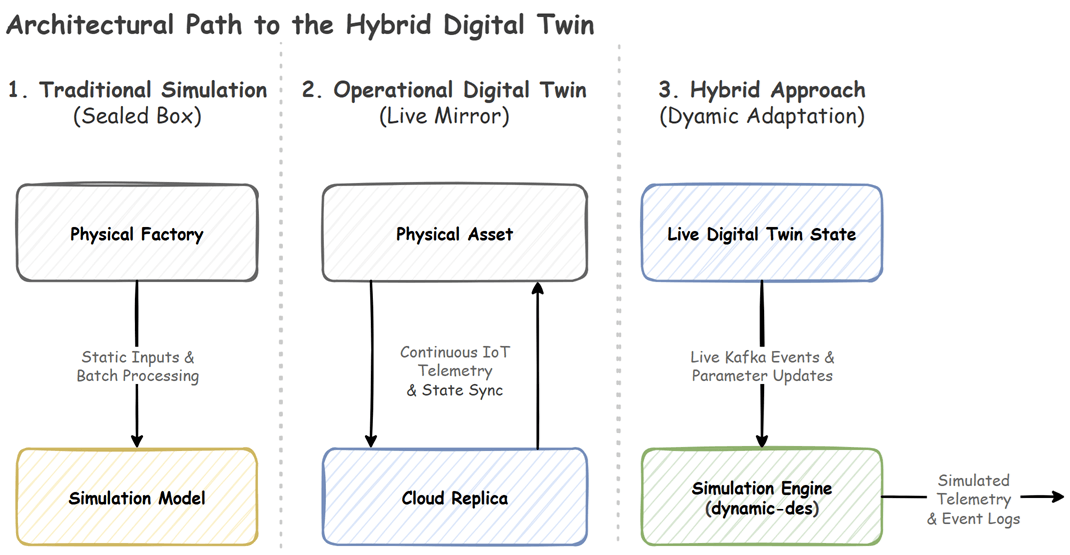
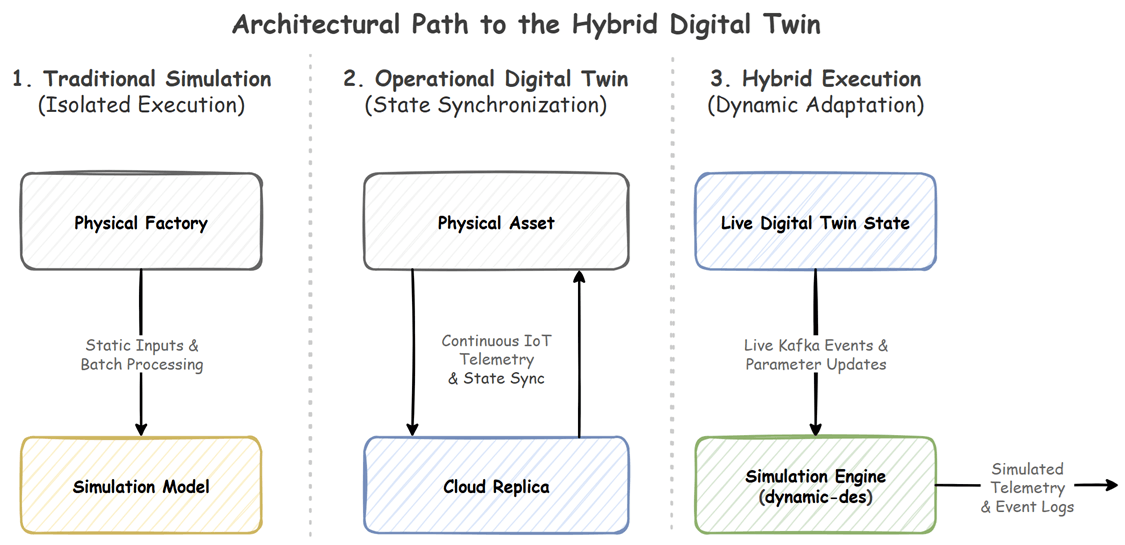
update post

diff --git a/content/blog/2026-04-23-digital-twin-industry-4-0/index.md b/content/blog/2026-04-23-digital-twin-industry-4-0/index.md
@@ -1,6 +1,6 @@
 ---
 title: "Why Digital Twins Are Rewiring Industry 4.0"
-date: 2026-04-23
+date: 2026-04-22
 draft: false
 featured: true
 comment: true
@@ -25,74 +25,65 @@ authors:
   - JaehyeonKim
 images: []
 description: |
-  Many systems marketed as digital twins are still static simulations. We look at the critical differences between traditional simulations, operational digital twins, and the hybrid architectures bridging the gap.
+  Many systems marketed as digital twins exist in an ambiguous middle ground. We look at the architectural layers separating traditional simulations, operational twins, and event-driven hybrid pipelines.
 ---
 
 ## Beyond CAD Models
 
-There is a project by Dassault Systèmes called the [**Living Heart**](https://www.3ds.com/3dexperiencelab/portfolio/living-heart) that illustrates the trajectory of this technology. Instead of relying on standard 2D scans, surgeons can pull up a 3D model of a patient's heart that simulates blood flow, mechanics, and electricity based on real patient data. It allows doctors to test therapeutic interventions before surgery begins.
+There is a project by Dassault Systèmes called the [**Living Heart**](https://www.3ds.com/3dexperiencelab/portfolio/living-heart) that illustrates the trajectory of this technology. Instead of relying on standard 2D scans, surgeons can pull up a high-fidelity 3D model of a patient's heart that simulates blood flow, mechanics, and electricity based on imaging-derived reconstructions and population-based physiological calibration.
 
-This highlights what a modern digital twin looks like in practice. It has moved past being a static 3D CAD file and serves as a persistent link between physical and digital environments, updating continuously based on operational data.
+While the Living Heart is closer to a personalized, highly-parameterized simulation than a continuously streaming IoT system, it highlights the core philosophy of a modern digital twin: moving past static CAD files to create models that are fundamentally aligned with a specific, real-world physical instance.
 
 ## Industry Applications
 
-While manufacturing initially drove this technology, digital twins are now expanding across a wider spectrum of advanced applications.
+While manufacturing initially drove this technology, digital twins, _systems that periodically or continuously align a digital model with physical reality_, exist on a wide spectrum. Some are event-driven, some are periodically synchronized, and others are simulation-first with occasional calibration.
 
-  * **Smart Manufacturing:** On automated factory floors, robotic arms stream live telemetry to virtual models. This allows plant managers to predict maintenance needs and test routing scenarios without halting physical production lines.
-  * **Supply Chain and Logistics:** Global supply chains use digital twins to track everything from warehouse inventory levels to fleet movements, achieving end-to-end visibility. Operators can simulate supply chain shocks and dynamically resolve bottlenecks before they impact customers.
-  * **Cybersecurity and Infrastructure:** Network digital twins are increasingly used to replicate API gateways and load balancers. Subjecting a live production server to a simulated DDoS attack carries unacceptable downtime risks. Instead, security teams use virtual replicas as isolated environments to safely test rate-limiting and AI behavioral rules.
-  * **Next-Generation Telecommunications:** Modern 5G networks are incredibly complex. Telecom operators build digital twins of their networks to manage dynamic bandwidth allocation and network slicing, simulating massive traffic spikes across thousands of nodes before they cause cellular outages.
+  * **Smart Manufacturing:** On automated factory floors, robotic arms stream telemetry to virtual models. This allows plant managers to track maintenance needs and test routing scenarios based on the current state of the factory.
+  * **Supply Chain and Logistics:** Global supply chains use digital twins to track everything from warehouse inventory levels to fleet movements, achieving end-to-end visibility.
+  * **Cybersecurity and Infrastructure:** Network digital twins are increasingly used to replicate network topology and traffic models. Security teams use these digital replicas as testbeds to safely test rate-limiting and AI behavioral rules against simulated DDoS attacks without risking live infrastructure.
+  * **Next-Generation Telecommunications:** Telecom operators build digital twins of their networks to manage dynamic bandwidth allocation and network slicing, analyzing traffic spikes across thousands of nodes before they cause outages.
 
 ## Reality Gap: Simulations vs. Digital Twins
 
-The tech industry frequently uses the terms "simulation" and "digital twin" interchangeably. Clarifying the technical difference between the two is critical for evaluating modern control architectures. To understand this difference practically, let's look at a factory floor where "Machine B" suddenly breaks down and its capacity drops to zero.
+The tech industry frequently uses the terms "simulation" and "digital twin" interchangeably. Clarifying how these systems handle state and time is critical for evaluating modern control architectures. To understand this practically, let's look at a factory floor where "Machine B" suddenly breaks down.
 
-Here is how three different architectural systems handle that exact event:
+Here is how different architectural patterns handle that exact event:
 
-### Traditional Simulation (Sealed Box)
+### 1. Traditional Simulation (Isolated Execution)
 
-A **simulation** is a predictive model designed to explore "what if" scenarios within bounded parameters, relying heavily on static inputs and batch processing. Many traditional simulation environments, including standard *Discrete-Event Simulation (DES)* tools, were not designed for continuous live operational updates.
+A **simulation** is a predictive model designed to explore "what if" scenarios.
 
-  * **Scenario:** On Monday morning, an engineer runs a DES model of the factory. On Tuesday, Machine B physically breaks. Because the traditional simulation operates as a sealed box, it is unaware of real-world changes once the mathematical execution begins. Unless an engineer manually stops the simulation, rewrites the parameters, and restarts it, the model will incorrectly continue assuming Machine B is running at full capacity.
+  * **Scenario:** On Monday morning, an engineer runs a Discrete-Event Simulation (DES) of the factory. On Tuesday, Machine B physically breaks.
+  * **Limitation:** A traditional simulation run is an isolated execution model. Unless the system is built to re-seed its parameters from a database and trigger a new batch run, the ongoing execution remains unaware of the real-world breakdown. It will incorrectly continue assuming Machine B is running at full capacity.
 
-### Operational Digital Twin (Live Mirror)
+### 2. Operational Digital Twin (State Synchronization)
 
-At the advanced end of the spectrum, an **operational digital twin** maintains a continuous, two-way connection to reality. Instead of relying on static snapshots, it utilizes distributed computing, time-series databases, and IoT connectivity to assess the exact current operational state.
+An **operational digital twin** extends a model by aligning it with reality using time-series databases and IoT connectivity.
 
-  * **Scenario:** The moment Machine B breaks, sensors ping the cloud database. The digital twin dashboard immediately turns red, updating the machine's live status to "Offline" and its current capacity to zero. However, it only tells you what is happening *right now*. It does not automatically recalculate the mathematical impact to simulate the future consequences of that breakdown.
+  * **Scenario:** The moment Machine B breaks, sensors ping the database. The twin immediately updates the machine's live status to "Offline."
+  * **Limitation:** In practice, a digital twin is usually a stack of overlapping layers. The core synchronization layer provides *state fidelity*, while separate analytics layers handle forecasting. However, if a system only utilizes the synchronization layer as a dashboard without integrating predictive models, it often relies on separate analytics modules, external simulation tools, or human operators to forecast future cascading consequences.
 
-### Hybrid Execution (Dynamic Adaptation)
+### 3. Event-Driven Hybrid Execution (Dynamic Adaptation)
 
-The **hybrid approach** bridges this gap by wiring the live state of the digital twin directly into a running simulation engine.
+Advanced architectures blend these layers into unified ecosystems, feeding real-world states directly into predictive engines. While many systems accomplish this through windowed re-execution or micro-batch propagation, another opinionated architectural pattern is **event-driven mutation**.
 
-  * **Scenario:** The operational twin registers that Machine B is broken and emits a live Kafka event. A background hybrid simulation engine ingests that event *while it is still running*. It dynamically mutates Machine B's capacity parameter to zero and recalculates the logic on the fly. The system now automatically outputs simulated telemetry showing the immediate cascading consequences: "Machine B's queue is backing up, routing logic must shift to Machine D, and a critical bottleneck will form at Machine C in exactly 45 minutes if no intervention is taken."
+  * **Scenario:** The operational twin registers the breakdown and emits a live Kafka event. A background hybrid simulation engine ingests that event *while it is actively running*. It dynamically mutates Machine B's capacity parameter to zero and recalculates its logic on the fly. It immediately outputs new telemetry: "Machine B's queue is backing up, routing logic must shift, and a bottleneck will form at Machine C in exactly 45 minutes."
 
 ## Upgraded Simulation Fallacy
 
-Because of this market confusion, organizations often fall into the "Upgraded Simulation Fallacy." They purchase simulation software, attach a 3D dashboard, and classify the project as a digital twin. However, if the system cannot process continuous data streams or synchronize with live states, it fundamentally remains a static simulation.
+Because of overlapping definitions, organizations often fall into what we might call the "Upgraded Simulation Fallacy". They purchase standard simulation software, attach a 3D dashboard, and market the project as a digital twin. If the system lacks the data pipelines to periodically align with live operational states, it sits in an ambiguous middle zone, delivering some monitoring value, but falling short of a fully integrated twin ecosystem.
 
-Transitioning to an operational digital twin introduces strict engineering realities:
+Transitioning to an operational twin introduces strict engineering realities:
 
-  * **Cost and Complexity:** Building them requires heavy investments in sensors, edge computing, and complex system architectures.
-  * **Cybersecurity Risks:** Connecting physical infrastructure to cloud-based models expands the attack surface.
-  * **Data Pipelines and Standardization:** Getting disparate sensors to speak the same language and pipe into a central engine is an architectural challenge.
+  * **Cost and Complexity:** Building them requires heavy investments in sensors, edge computing, and complex data architecture.
+  * **Data Pipelines and Standardization:** Getting disparate sensors to speak the same language and pipe into a central engine requires robust schemas (like Pydantic, Avro, or Protobuf).
 
-This last point is where many projects stall. If you force real-time updates into a legacy simulation engine, the simulation clock often bottlenecks while waiting for network requests, or the system fails due to unpredictable data. To build a functional digital twin, your simulation engine must be designed to handle asynchronous network I/O so the underlying math model runs uninterrupted, while enforcing strict data schemas (like Pydantic or Avro) to maintain system stability.
+This last point is where many hybrid projects stall. If you naively force real-time asynchronous updates directly into a standard simulation loop, the engine's internal clock can bottleneck while waiting for network requests. To avoid this design anti-pattern, teams must explicitly decouple their network I/O from the simulation execution or rely on rolling micro-batches.
 
-## Taking Control with a Hybrid Approach
+## Taking Control with `dynamic-des`
 
-Ultimately, organizations shouldn't have to choose between a static simulation and a live twin. The future of Industry 4.0 is a hybrid approach: running "what-if" simulations against live digital twin states.
+Organizations shouldn't have to choose between an isolated simulation and an operational dashboard. The goal is to combine them, running "what-if" forecasts against synchronized, real-world states.
 
-By feeding the current, real-time state of a digital twin directly into a simulation engine, engineers can forecast the next four hours of production or network traffic based on exact current conditions.
+But if you want to implement an event-driven architecture where a running mathematical model ingests Kafka streams and alters its parameters on the fly without stopping, you face a complex I/O challenge.
 
-But this introduces a major architectural problem: How do you take a live digital twin state, ingest an asynchronous Kafka stream, and dynamically alter the capacity of a running virtual machine without lagging behind real-time?
-
-One approach to solving this class of problem is the [**`dynamic-des`**](https://github.com/jaehyeon-kim/dynamic-des) package. In Part 2 of this series, we will look at how the package's Switchboard pattern and dynamic resources can help turn a static mathematical model into a synchronized, event-driven digital twin.
-
------
-
-### References
-
-1.  Attaran, M., & Celik, B. G. (2023). Digital Twin: Benefits, use cases, challenges, and opportunities. *Decision Analytics Journal*, 6, 100165.
-2.  Javaid, M., Haleem, A., & Suman, R. (2023). Digital Twin applications toward Industry 4.0: A Review. *Cognitive Robotics*, 3, 71-92.
-3.  Niantic Spatial. (2025). Simulations vs. Digital Twins. *Niantic Spatial Campaigns*.
+One purpose-built approach to solving this specific pattern is the [**`dynamic-des`**](https://github.com/jaehyeon-kim/dynamic-des) package. In Part 2 of this series, we will look at how this open-source tool uses a Switchboard pattern and dynamic mutable resources to turn a static SimPy script into a synchronized, event-driven engine.